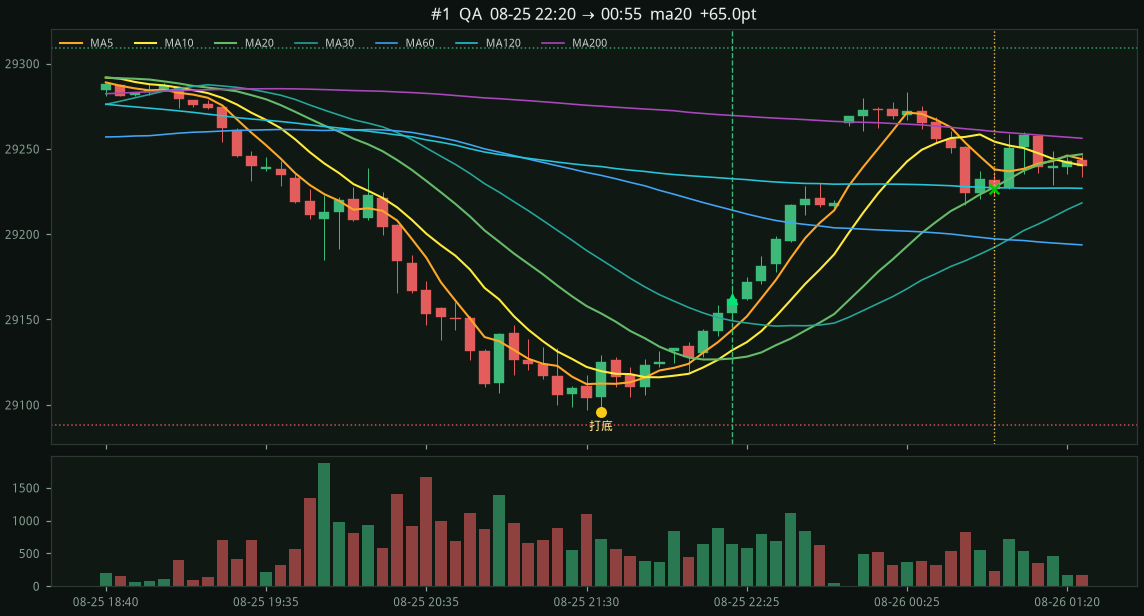
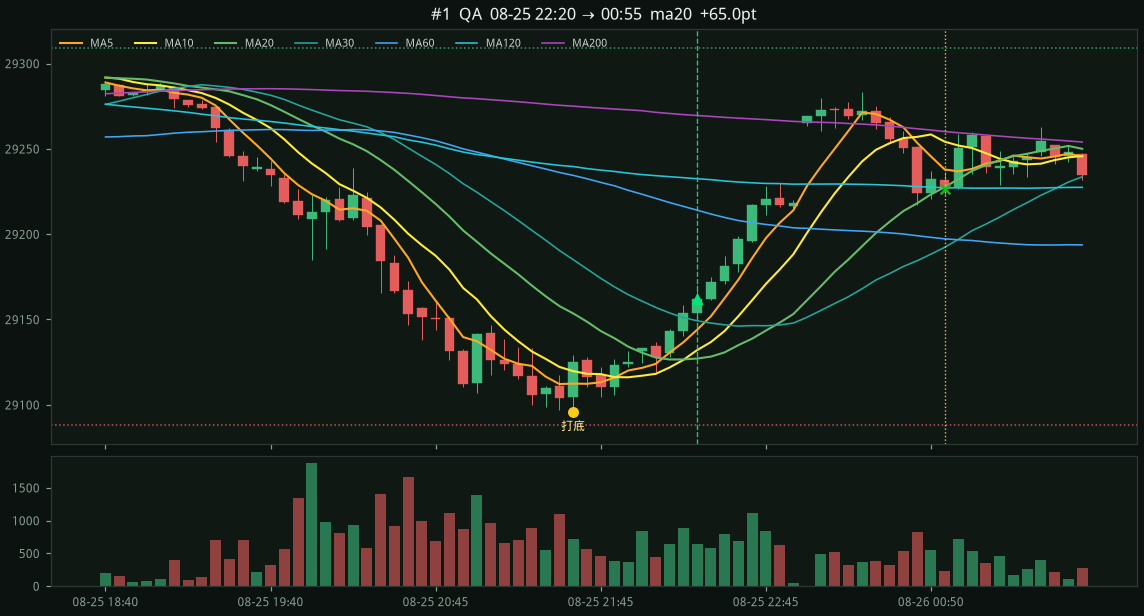
Show 30d backtest: still only the screenshot U
30-day Yahoo 5m has 57 bases and 68 stack flips, but only 08-25 22:20 passes the tight U filters.

diff --git a/docs/nq-5m-base-stack/index.html b/docs/nq-5m-base-stack/index.html
@@ -33,7 +33,7 @@ h1{font-size:18px;margin:0 0 6px}
 <div class="page">
 <section class="summary">
 <h1>NQ=F 五分打底後 5/10/20 多排</h1>
-<p class="muted">8d · 2026-08-18 00:05 → 2026-08-26 01:25 ET · bars=1649 · 五分 K</p>
+<p class="muted">30d · 2026-07-23 00:05 → 2026-08-26 03:30 ET · bars=6618 · 五分 K</p>
 <p class="muted">急跌打底後，第一次 MA5&gt;MA10&gt;MA20 要散開上攻才進（MA5 明顯高於 MA10，近幾根多數收紅）。黏帶點一下、或低點橫很久才排好的不算。停損打底低下方，目標 2R。</p>
 <p class='muted'><b>只留截圖那種 U：急跌、短打底、均線散開。黏帶翻排和盤很久的已濾掉。</b></p>
 <div class="cards">
@@ -43,7 +43,7 @@ h1{font-size:18px;margin:0 0 6px}
 <div class="card">均筆<b>+65.0</b></div>
 </div>
 <p class="muted">QA 1筆 +65.0</p>
-<p class='muted'>漏斗：波段低 135 → 跌夠 73 → 打底 16 → 多排翻轉 20 → 進場 1（慢跌 33 · 沒打底 14 · 破底 7 · 黏帶翻排 8 · 低點還在均線上 8 · 收回過多 0 · 風險 3）</p>
+<p class='muted'>漏斗：波段低 559 → 跌夠 309 → 打底 57 → 多排翻轉 68 → 進場 1（慢跌 133 · 沒打底 50 · 破底 33 · 黏帶翻排 31 · 低點還在均線上 58 · 收回過多 4 · 風險 5）</p>
 <div class="equity"><svg viewBox="0 0 720 180" width="100%" style="background:#0f172a;border-radius:8px"><line x1="0" y1="162.6" x2="720" y2="162.6" stroke="#334155" stroke-dasharray="4 4"/><polyline fill="none" stroke="#16a34a" stroke-width="2" points="0.0,162.6 720.0,17.4"/></svg></div>
 </section>
 <article class='trade-card'><header class='card-header'><div class='card-title'><span class='trade-no'>#1 · QA</span><span class='trade-time'>2026-08-25 22:20 → 08-26 00:55</span></div><div class='card-pnl pnl-win'>+65.0 pts</div></header><div class='tags'><span class='tag tag-time'>ma20</span><span class='tag tag-info'>5m</span><span class='tag tag-info'>QA</span><span class='tag tag-info'>跌 152pt</span></div><pre class='trade-detail'>entry 29161.75

diff --git a/docs/nq-5m-base-stack/view.html b/docs/nq-5m-base-stack/view.html
@@ -33,7 +33,7 @@ h1{font-size:18px;margin:0 0 6px}
 <div class="page">
 <section class="summary">
 <h1>NQ=F 五分打底後 5/10/20 多排</h1>
-<p class="muted">8d · 2026-08-18 00:05 → 2026-08-26 01:25 ET · bars=1649 · 五分 K</p>
+<p class="muted">30d · 2026-07-23 00:05 → 2026-08-26 03:30 ET · bars=6618 · 五分 K</p>
 <p class="muted">急跌打底後，第一次 MA5&gt;MA10&gt;MA20 要散開上攻才進（MA5 明顯高於 MA10，近幾根多數收紅）。黏帶點一下、或低點橫很久才排好的不算。停損打底低下方，目標 2R。</p>
 <p class='muted'><b>只留截圖那種 U：急跌、短打底、均線散開。黏帶翻排和盤很久的已濾掉。</b></p>
 <div class="cards">
@@ -43,7 +43,7 @@ h1{font-size:18px;margin:0 0 6px}
 <div class="card">均筆<b>+65.0</b></div>
 </div>
 <p class="muted">QA 1筆 +65.0</p>
-<p class='muted'>漏斗：波段低 135 → 跌夠 73 → 打底 16 → 多排翻轉 20 → 進場 1（慢跌 33 · 沒打底 14 · 破底 7 · 黏帶翻排 8 · 低點還在均線上 8 · 收回過多 0 · 風險 3）</p>
+<p class='muted'>漏斗：波段低 559 → 跌夠 309 → 打底 57 → 多排翻轉 68 → 進場 1（慢跌 133 · 沒打底 50 · 破底 33 · 黏帶翻排 31 · 低點還在均線上 58 · 收回過多 4 · 風險 5）</p>
 <div class="equity"><svg viewBox="0 0 720 180" width="100%" style="background:#0f172a;border-radius:8px"><line x1="0" y1="162.6" x2="720" y2="162.6" stroke="#334155" stroke-dasharray="4 4"/><polyline fill="none" stroke="#16a34a" stroke-width="2" points="0.0,162.6 720.0,17.4"/></svg></div>
 </section>
 <article class='trade-card'><header class='card-header'><div class='card-title'><span class='trade-no'>#1 · QA</span><span class='trade-time'>2026-08-25 22:20 → 08-26 00:55</span></div><div class='card-pnl pnl-win'>+65.0 pts</div></header><div class='tags'><span class='tag tag-time'>ma20</span><span class='tag tag-info'>5m</span><span class='tag tag-info'>QA</span><span class='tag tag-info'>跌 152pt</span></div><pre class='trade-detail'>entry 29161.75

diff --git a/README.md b/README.md
@@ -27,10 +27,10 @@
 五分鐘圖：急跌、低點短打底，然後 **MA5 > MA10 > MA20 散開上攻**才做多。  
 黏帶點一下、下跌中暫停、或橫很久才排好的都不算。對齊 08-26 截圖：21:35 低點 29096，**22:20** 進場 @ 29161.75。
 
-近 8 天／60 天 Yahoo 5m 都只剩這 **1 筆**：08-25 22:20，MA20 出場 **+65 點**。
+近 30 天 Yahoo 5m（07-23 → 08-26）：漏斗 打底 57 → 多排翻轉 68 → **進場 1 筆**（就是截圖 08-25 22:20，+65）。不是資料少，是規則收到只像那張 U。
 
 ```bash
-python3 examples/nq_5m_base_stack.py backtest --period 8d --pages
+python3 examples/nq_5m_base_stack.py backtest --period 30d --pages
 python3 examples/nq_5m_base_stack.py backtest --period 60d --html output/nq_5m_base_stack_60d.html
 python3 examples/nq_5m_base_stack.py alert --test
 python3 examples/nq_5m_base_stack.py alert --dry-run --once
